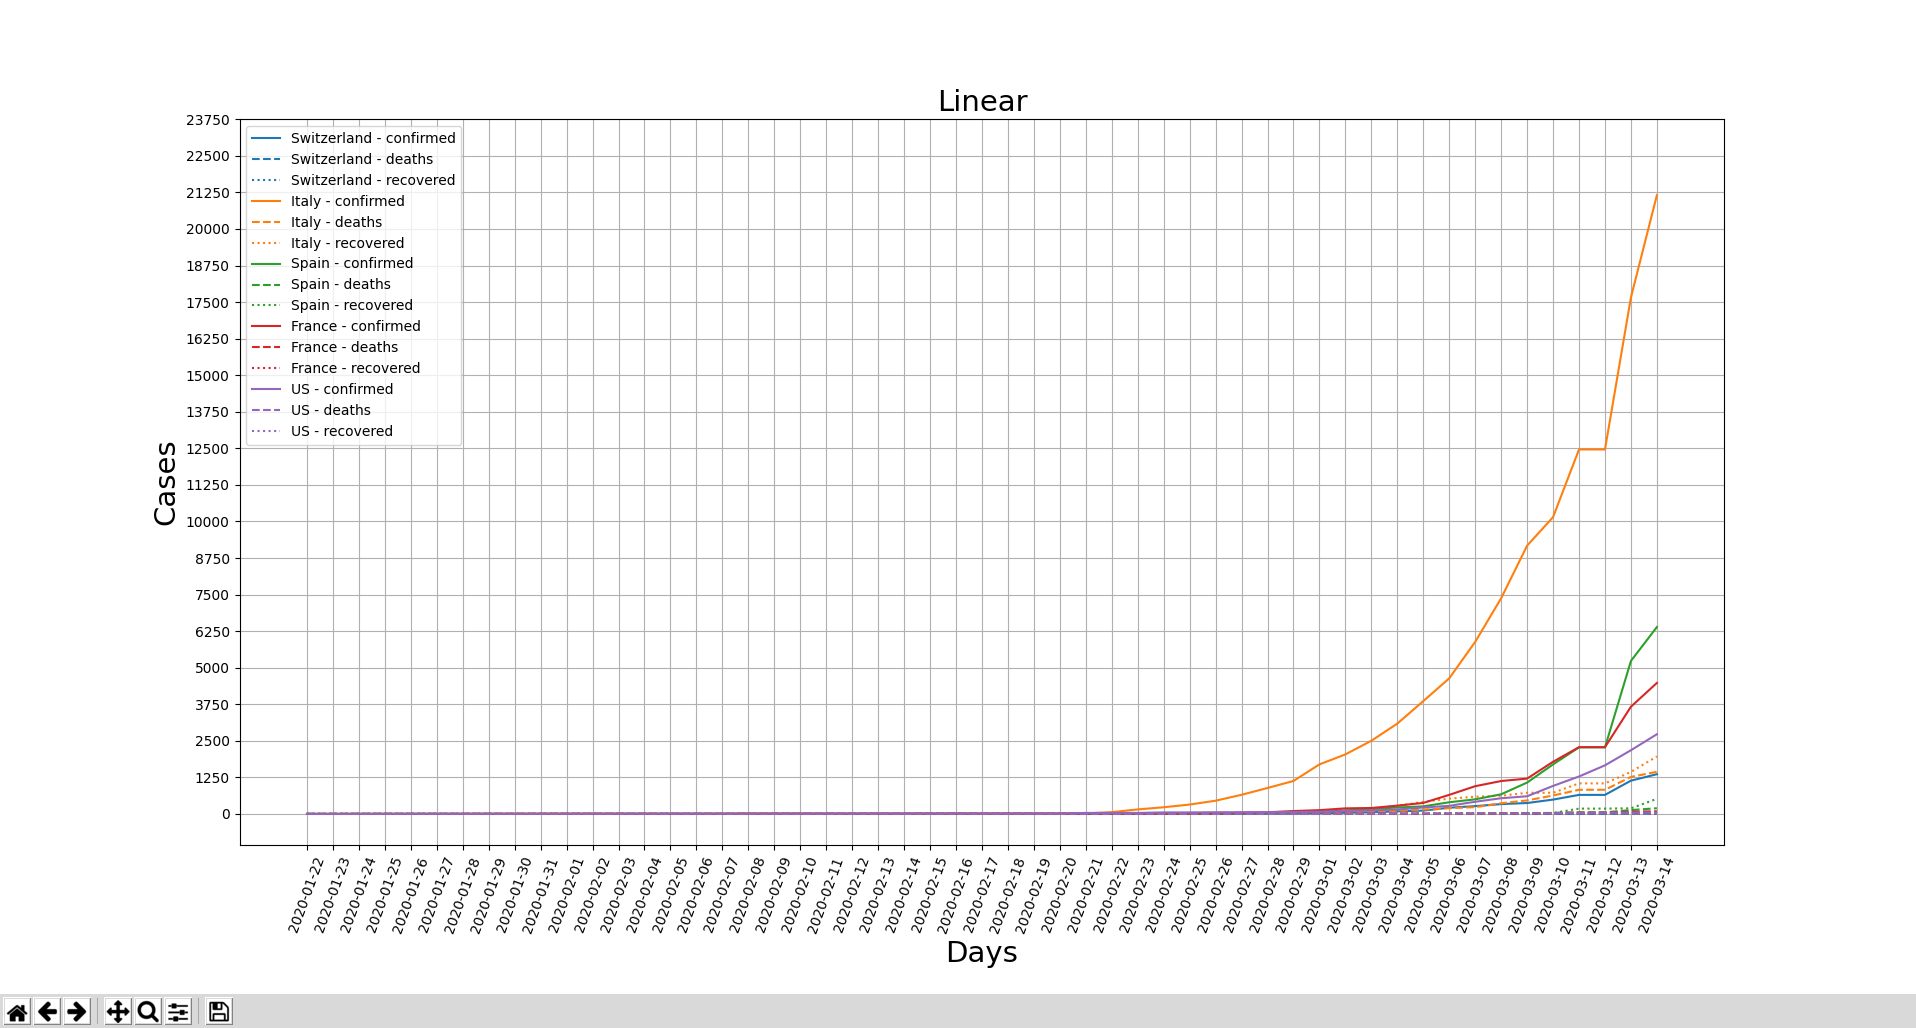
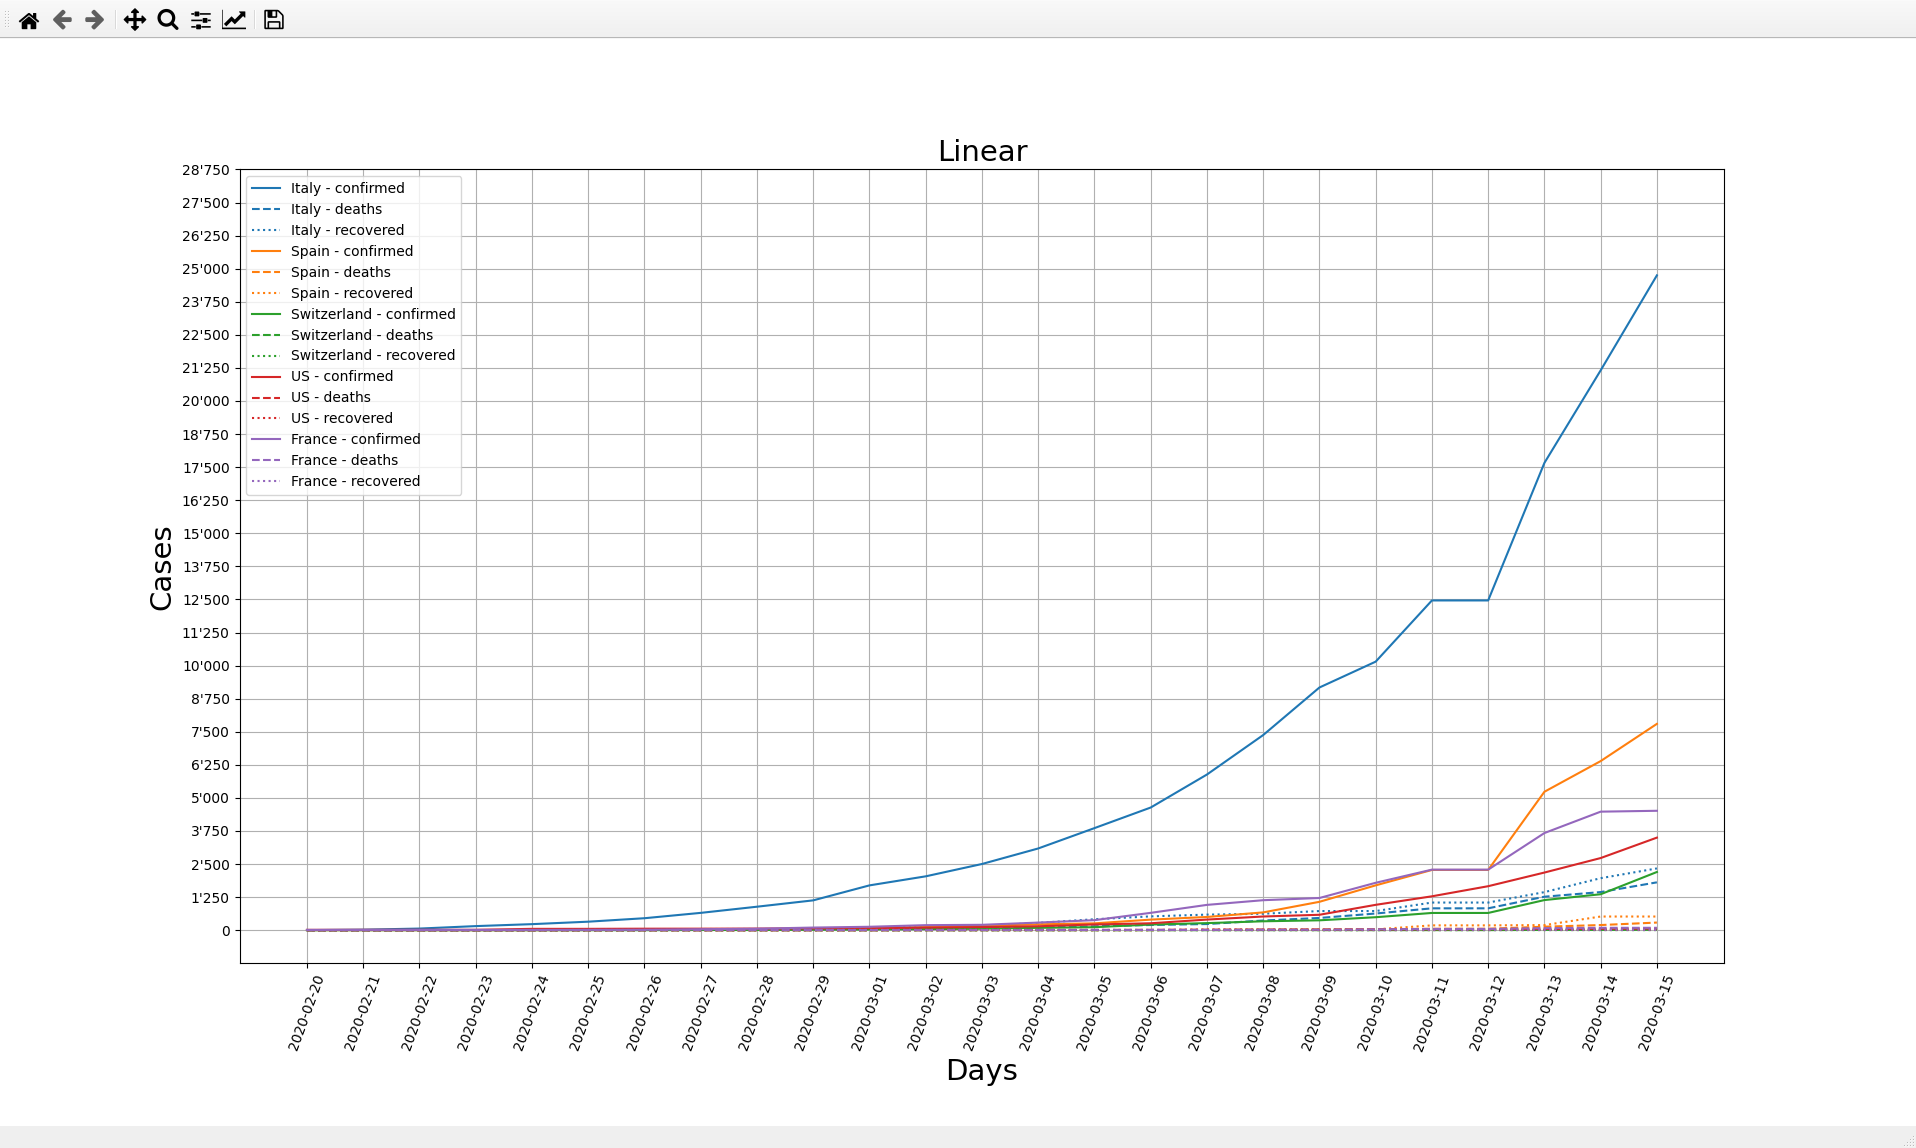
feat: use time_series data and add option --startdate

Changed region(s): [[0.0, 0.0934, 1.0, 1.0], [0.0, 0.0, 0.154, 0.0311]]

diff --git a/covid_19_plot.py b/covid_19_plot.py
@@ -2,15 +2,21 @@
 
 
 import argparse
+import csv
+import datetime
+import glob
+import os
 import sys
+
 import matplotlib.pyplot as plt
 import numpy as np
-import csv
-import glob, os
-from datetime import datetime
-
 
 DIR_PATH = os.path.dirname(os.path.realpath(__file__))
+CSV_PATHS = {
+    "confirmed": f"{DIR_PATH}/COVID-19/csse_covid_19_data/csse_covid_19_time_series/time_series_19-covid-Confirmed.csv",
+    "deaths": f"{DIR_PATH}/COVID-19/csse_covid_19_data/csse_covid_19_time_series/time_series_19-covid-Deaths.csv",
+    "recovered": f"{DIR_PATH}/COVID-19/csse_covid_19_data/csse_covid_19_time_series/time_series_19-covid-Recovered.csv",
+}
 
 
 def group(number):
@@ -20,6 +26,14 @@ def group(number):
         groups.append(s[-3:])
         s = s[:-3]
     return s + "'".join(reversed(groups))
+
+
+def valid_date(s):
+    try:
+        return datetime.datetime.strptime(s, "%Y-%m-%d").date()
+    except ValueError:
+        msg = "Not a valid date: '{0}'.".format(s)
+        raise argparse.ArgumentTypeError(msg)
 
 
 def parse_arguments(args):
@@ -46,6 +60,12 @@ def parse_arguments(args):
     )
     parser.add_argument("-a", "--all", action="store_true", help="include all")
     parser.add_argument(
+        "-s",
+        "--startdate",
+        help="plot data past given date - format YYYY-MM-DD",
+        type=valid_date,
+    )
+    parser.add_argument(
         "--split-by-state",
         action="store_true",
         help="show graph for each province/state",
@@ -63,40 +83,40 @@ def parse_arguments(args):
     return args
 
 
-def handle_row(row, data):
-    confirmed = int(row["Confirmed"]) if row["Confirmed"] else 0
-    deaths = int(row["Deaths"]) if row["Deaths"] else 0
-    recovered = int(row["Recovered"]) if row["Recovered"] else 0
-    return confirmed, deaths, recovered
-
-
-def collect_data_from_file(file, countries, split_by_state):
+def get_data_from_file(file, countries, split_by_state, startdate):
     data = {}
     with open(file) as csvfile:
         reader = csv.DictReader(csvfile)
         for row in reader:
             area = row["Country/Region"].strip()
             if area in countries:
-                confirmed, deaths, recovered = handle_row(row, data)
-                if confirmed == deaths == recovered == 0:
-                    continue
+                state = row.pop("Province/State").strip()
+                country = row.pop("Country/Region").strip()
+                row.pop("Lat")
+                row.pop("Long")
+                x = []
+                y = []
+                for date, count in row.items():
+                    # can't use strptime with non-padded month
+                    month, day, year = date.split("/")
+                    date = datetime.date(int(f"20{year}"), int(month), int(day))
+                    if startdate and date < startdate:
+                        continue
+                    x.append(date)
+                    y.append(int(count))
                 if split_by_state:
-                    state = row.get("Province/State", row.get("\ufeffProvince/State"))
-                    area = f'{row["Country/Region"].strip()} - {state}'
+                    area = f"{country} - {state}"
                 if area not in data:
-                    data[area] = {
-                        "confirmed": 0,
-                        "deaths": 0,
-                        "recovered": 0,
-                    }
-                data[area]["confirmed"] += confirmed
-                data[area]["deaths"] += deaths
-                data[area]["recovered"] += recovered
-
+                    data[area] = {}
+                if not data[area] or split_by_state:
+                    data[area] = {"x": x, "y": y}
+                    continue
+                for ct, i in enumerate(y):
+                    data[area]["y"][ct] += i
     return data
 
 
-def get_data(countries, split_by_state):
+def get_data(countries, args):
     """
     Collects data from CSVs
 
@@ -113,37 +133,33 @@ def get_data(countries, split_by_state):
 
     """
 
-    def last_item_or_zero(lst):
-        if len(lst):
-            return lst[-1]
-        return 0
+    def add_to_data(sdata, key):
+        for area, d in sdata.items():
+            if area not in data:
+                data[area] = {}
+            data[area][key] = sdata[area]
 
     data = {}
-    meta = {"dates": []}
 
-    os.chdir(f"{DIR_PATH}/COVID-19/csse_covid_19_data/csse_covid_19_daily_reports")
+    if args.confirmed:
+        sub_data = get_data_from_file(
+            CSV_PATHS["confirmed"], countries, args.split_by_state, args.startdate
+        )
+        add_to_data(sub_data, "confirmed")
 
-    for file in sorted(glob.glob("*.csv")):
-        date = datetime.strptime(file, "%m-%d-%Y.csv").date()
-        sub_data = collect_data_from_file(file, countries, split_by_state)
+    if args.deaths:
+        sub_data = get_data_from_file(
+            CSV_PATHS["deaths"], countries, args.split_by_state, args.startdate
+        )
+        add_to_data(sub_data, "deaths")
 
-        if not sub_data and not data:
-            continue
-        for area in sub_data:
-            if area not in data:
-                data[area] = {
-                    "confirmed": [],
-                    "deaths": [],
-                    "recovered": [],
-                    "dates": [],
-                }
-            data[area]["confirmed"].append(sub_data[area]["confirmed"])
-            data[area]["deaths"].append(sub_data[area]["deaths"])
-            data[area]["recovered"].append(sub_data[area]["recovered"])
-            data[area]["dates"].append(date)
+    if args.recovered:
+        sub_data = get_data_from_file(
+            CSV_PATHS["recovered"], countries, args.split_by_state, args.startdate
+        )
+        add_to_data(sub_data, "recovered")
 
-        meta["dates"].append(date)
-    return data, meta
+    return data
 
 
 def get_countries():
@@ -176,8 +192,8 @@ def setup_plot(args):
     plt.ylabel("Cases", fontdict=font)
 
 
-def plot(data, meta, args):
-    def y_ticks(args):
+def plot(data, args):
+    def y_ticks():
         yticks = plt.yticks()
         new_diff = (yticks[0][1] - yticks[0][0]) / 4
         if not args.logarithmic:
@@ -189,42 +205,26 @@ def plot(data, meta, args):
 
     setup_plot(args)
 
-    x = meta["dates"]
+    first_key = next(iter(data))
+    second_key = next(iter(data[first_key]))
+    x = data[first_key][second_key]["x"]
     plt.xticks(x, labels=[date.strftime("%Y-%m-%d") for date in x], rotation=70)
 
     legend = []
     plots = []
+    linestyle = {"confirmed": "solid", "deaths": "dashed", "recovered": "dotted"}
     for area, area_data in data.items():
         color = None
-        if args.confirmed:
-            plots.append(plt.plot(area_data["dates"], area_data["confirmed"]))
-            color = plots[-1][0].get_color()
-            legend.append(f"{area} - confirmed")
-
-        if args.deaths:
+        for category, data in area_data.items():
             plots.append(
                 plt.plot(
-                    area_data["dates"],
-                    area_data["deaths"],
-                    color=color if color else None,
-                    linestyle="dashed",
+                    data["x"], data["y"], color=color, linestyle=linestyle[category],
                 )
             )
             color = plots[-1][0].get_color()
-            legend.append(f"{area} - deaths")
+            legend.append(f"{area} - {category}")
 
-        if args.recovered:
-            plots.append(
-                plt.plot(
-                    area_data["dates"],
-                    area_data["recovered"],
-                    color=color if color else None,
-                    linestyle="dotted",
-                )
-            )
-            legend.append(f"{area} - recovered")
-
-    y_ticks(args)
+    y_ticks()
 
     plt.grid()
     plt.legend(legend)
@@ -238,9 +238,9 @@ def main():
         print("\n".join(get_countries()))
         sys.exit(0)
 
-    data, meta = get_data(args.countries, args.split_by_state)
+    data = get_data(args.countries, args)
 
-    plot(data, meta, args)
+    plot(data, args)
     try:
         plt.show()
     except KeyboardInterrupt:

diff --git a/README.md b/README.md
@@ -29,28 +29,39 @@ Install `matplotlib`:
 pip install matplotlib
 ```
 
+Maybe you also need to install your preferred
+[backend for matplotlib](https://matplotlib.org/faq/usage_faq.html#what-is-a-backend).
+
+For example:
+
+```
+pip install PyQt5
+```
+
 ## Usage
 
 ```
-usage: covid_19_plot.py [-h] [-l] [-c] [-d] [-r] [-a] [--split-by-state] [--list-countries] [countries [countries ...]]
+usage: covid_19_plot.py [-h] [-l] [-c] [-d] [-r] [-a] [-s STARTDATE] [--split-by-state] [--list-countries] [countries [countries ...]]
 
 positional arguments:
-  countries          List of countries/regions (defaults to Switzerland)
+  countries             List of countries/regions (defaults to Switzerland)
 
 optional arguments:
-  -h, --help         show this help message and exit
-  -l, --logarithmic  use logarithmic scale
-  -c, --confirmed    include confirmed (default)
-  -d, --deaths       include deaths
-  -r, --recovered    include recovered
-  -a, --all          include all
-  --split-by-state   show graph for each province/state
-  --list-countries   list available countries/regions
+  -h, --help            show this help message and exit
+  -l, --logarithmic     use logarithmic scale
+  -c, --confirmed       include confirmed (default)
+  -d, --deaths          include deaths
+  -r, --recovered       include recovered
+  -a, --all             include all
+  -s STARTDATE, --startdate STARTDATE
+                        plot data past given date - format YYYY-MM-DD
+  --split-by-state      show graph for each province/state
+  --list-countries      list available countries/regions
 ```
 
 ## Example screenshot
 ```shell
-./covid_19_plot.py -a Switzerland Italy Spain France US
+./covid_19_plot.py -a --startdate 2020-02-20 Switzerland Italy Spain France US
 ```
 
-![screenshot](screenshots/screen.png)
+![screenshot](screenshots/screen.png#1)
